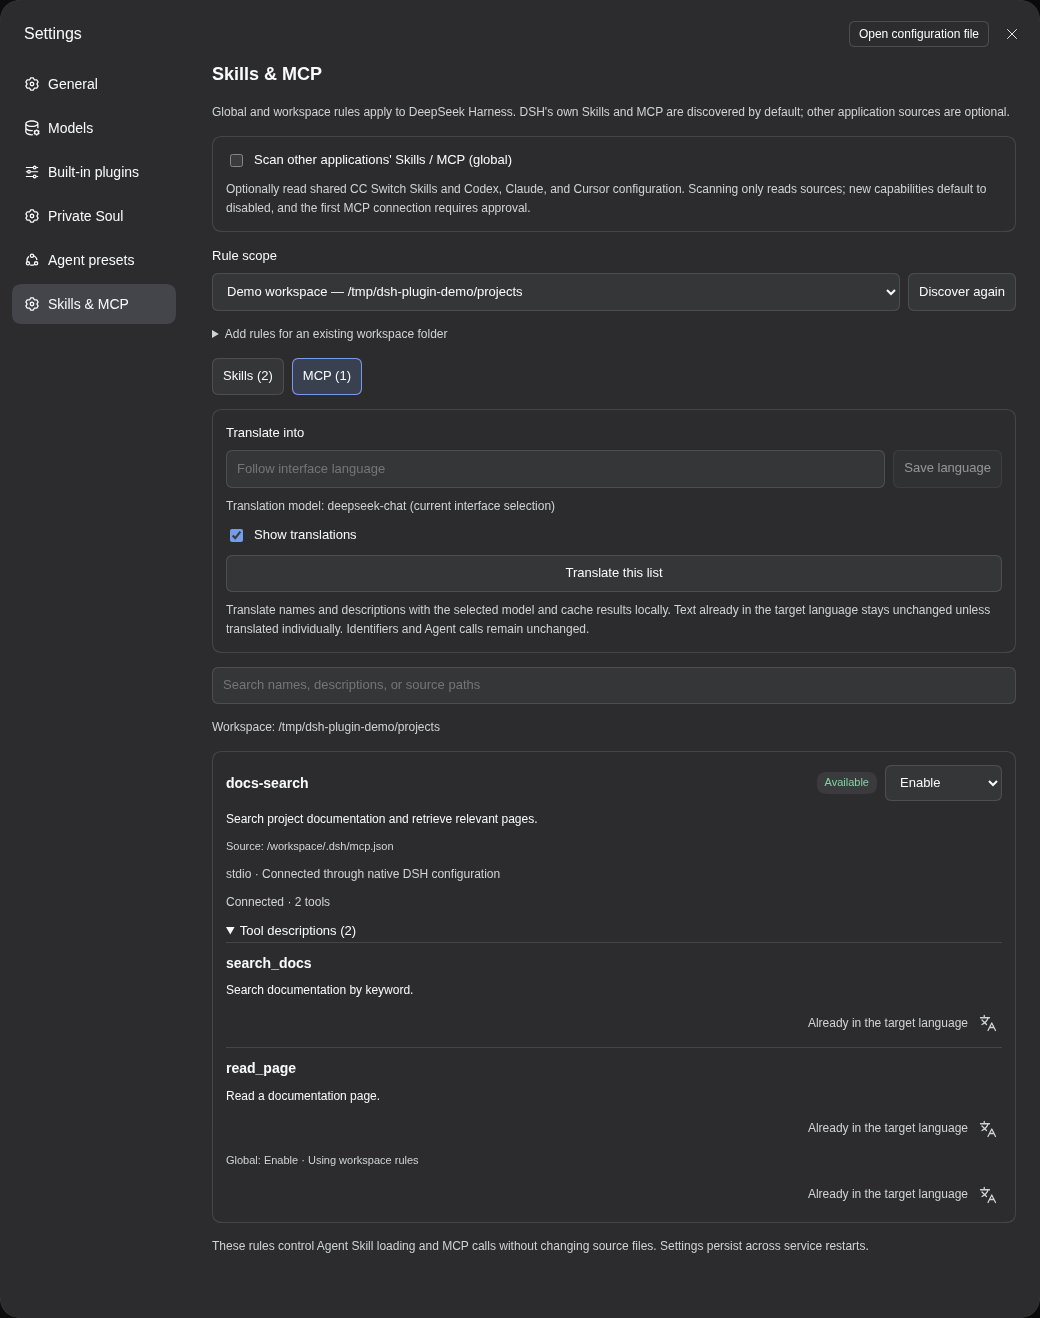
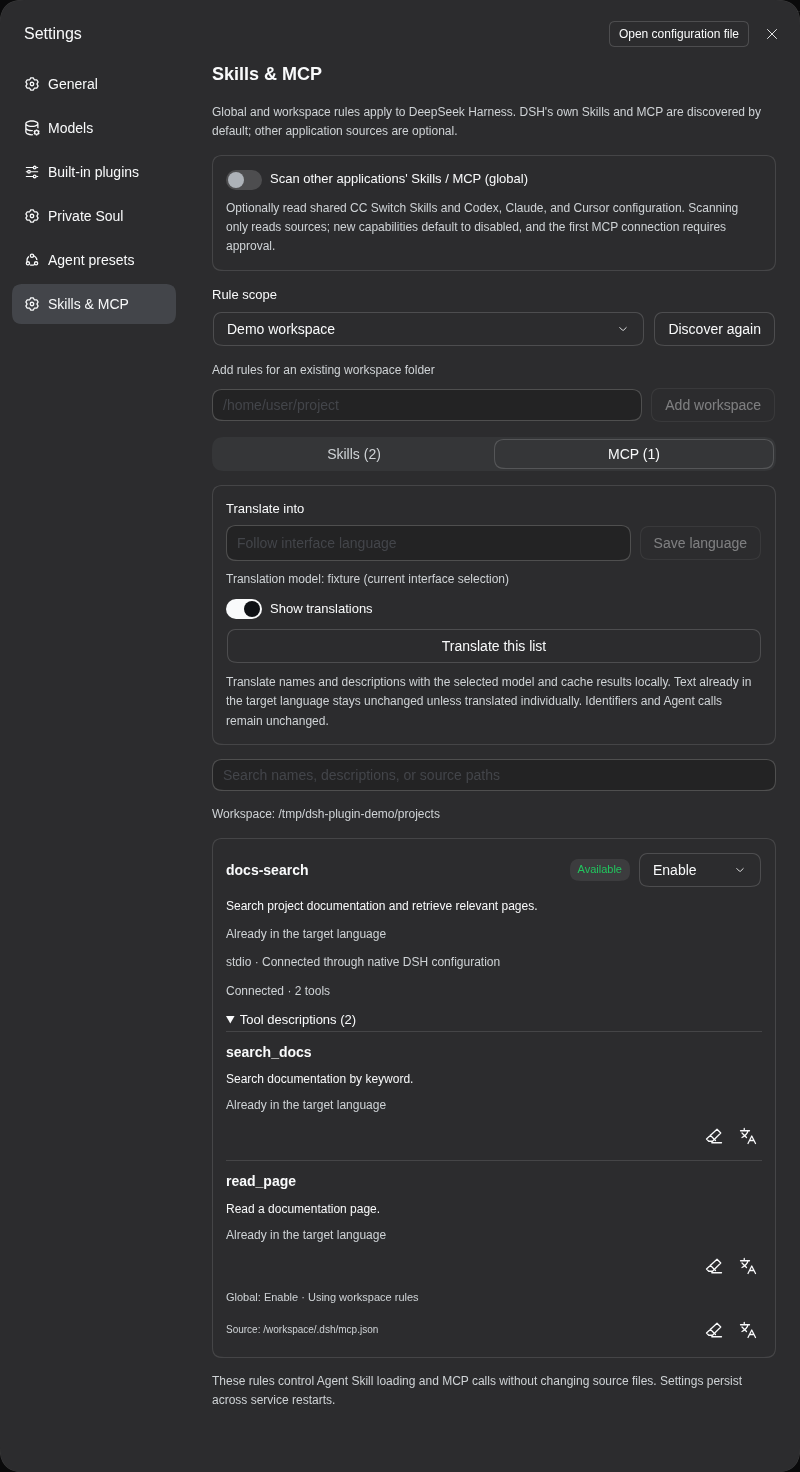
Refresh native UI screenshots and verify Standard/PTC Skill injection

diff --git a/README.en.md b/README.en.md
@@ -33,9 +33,11 @@ Verified against the native DeepSeek Harness **0.2.2-rc.2** Web service using re
 | Preset | Capability Desk | Soul Desk | File Bridge |
 | --- | --- | --- | --- |
 | Standard `standard` | Skill/MCP catalogs, rules and invocation guards work | All three injection modes, memories and child policies work | Download and access checks work |
-| PTC `ptc` | Disabled tools are omitted from the SDK and nested calls remain guarded | Preserves the `run_code` protocol and SDK; memory tools work through SDK calls | Works independently of tool-call style |
+| PTC `ptc` | Enabled Skills are injected normally; enabled tools stay in the SDK, while disabled entries are hidden and guarded | Preserves the `run_code` protocol and SDK; memory tools work through SDK calls | Works independently of tool-call style |
 | Minimal `minimal` | Rules work without adding a Skill loader, editor or subagent tools | Persona and memory support preserves the preset's existing tool boundary | Works |
 | Creation `cordis` | Skill/MCP rules preserve native creation tools | All three injection modes, memories and child policies work | Works |
+
+PTC and Standard both receive the available Skill catalog, persona and memories. Full Skill instructions enter context when loaded. PTC invokes tools through the `run_code` SDK; Standard invokes them directly. All six combinations with Priority, Complete and Append were tested: enabled Skills load, while disabled ones cannot be forced.
 
 Minimal does not ship a Skill loader or subagents; enabling a Skill does not install those tools into that preset. Global plugins can still contribute their own memory or MCP tools. Soul child policies default to no persona; parent reuse is explicit. Soul's Complete mode replaces the preset's prompt body while preserving executor protocol/SDK sections, tool schemas and native runtime context. Use Priority or Append to keep the original task instructions. Custom presets that isolate or replace underlying registries, and external ACP backends, need separate verification.
 
@@ -54,13 +56,15 @@ See [four-preset acceptance](docs/AGENT-PRESET-COMPATIBILITY.md).
 
 Select a scope, change each capability's rule, and manage translated text using the item icons and Show translations switch.
 
-![Workspace Skill rules and translations](https://raw.githubusercontent.com/ousiqwq/dsh-capability-desk/main/docs/images/skills.en.png?v=1.3.2)
+Screenshots show the current native DSH UI with isolated sample data; settings are expanded for readability.
+
+![Workspace Skill rules and translations](https://raw.githubusercontent.com/ousiqwq/dsh-capability-desk/main/docs/images/skills.en.png?v=1.3.4)
 
 ### MCP connections and tool descriptions
 
 Inspect sources, connection status, and tool lists, and configure availability for each server.
 
-![MCP connection status, tool descriptions, and translations](https://raw.githubusercontent.com/ousiqwq/dsh-capability-desk/main/docs/images/mcp.en.png?v=1.3.2)
+![MCP connection status, tool descriptions, and translations](https://raw.githubusercontent.com/ousiqwq/dsh-capability-desk/main/docs/images/mcp.en.png?v=1.3.4)
 
 ## Usage
 

diff --git a/README.md b/README.md
@@ -33,9 +33,11 @@ dsh plugin --profile web add dsh-plugin-workspace-capabilities
 | 预设 | Capability Desk | Soul Desk | File Bridge |
 | --- | --- | --- | --- |
 | 标准 `standard` | Skill/MCP 规则、目录及调用拦截有效 | 三种注入方式、记忆与子代理规则有效 | 文件下载及权限校验有效 |
-| PTC `ptc` | SDK 中隐藏禁用工具，嵌套调用仍受拦截 | 保留 `run_code` 协议与工具 SDK，记忆可从 SDK 调用 | 同样有效，与工具调用形式无关 |
+| PTC `ptc` | 可用 Skill 正常注入；启用的工具保留在 SDK 中，仅隐藏并拦截禁用项 | 保留 `run_code` 协议与工具 SDK，记忆可从 SDK 调用 | 同样有效，与工具调用形式无关 |
 | 极简 `minimal` | 规则仍有效；不会额外添加 Skill 加载、编辑或子代理工具 | 人设与记忆有效，保留预设原有工具边界 | 同样有效 |
 | 创造 `cordis` | Skill/MCP 规则有效，不移除原生创造工具 | 三种注入方式、记忆与子代理规则有效 | 同样有效 |
+
+PTC 与标准模式都保留可用 Skill 目录、人设和记忆。Skill 完整说明仍在加载后进入上下文；PTC 通过 `run_code` 调用 SDK，标准模式直接调用工具。已实测两种模式与“优先／替换／追加”的六种组合，启用项可加载，禁用项不可强行调用。
 
 极简模式没有原生 Skill 加载器或子代理，启用某项 Skill 不会为该预设补装这些工具。全局插件仍可提供自己的记忆或 MCP 工具。子代理策略以 Soul 的设置为准，默认不使用人设；复用派出者需明确配置。Soul 的“替换”模式替换预设提示词正文，但保留执行器协议/SDK、工具 schema 和原生运行上下文；希望保留原有任务说明时使用“优先”或“追加”。自定义预设若隔离或替换底层注册表、外部 ACP 后端，不在本次统一保证范围。
 
@@ -54,13 +56,15 @@ dsh plugin --profile web add dsh-plugin-workspace-capabilities
 
 选择规则范围并单独调整能力状态。缓存译文默认显示；卡片右下角可去除或重新翻译。
 
-![工作区 Skill 规则与译文](https://raw.githubusercontent.com/ousiqwq/dsh-capability-desk/main/docs/images/skills.png?v=1.3.2)
+截图使用当前 DSH 原生界面与隔离示例数据；设置区域为阅读方便展开显示。
+
+![工作区 Skill 规则与译文](https://raw.githubusercontent.com/ousiqwq/dsh-capability-desk/main/docs/images/skills.png?v=1.3.4)
 
 ### MCP 连接与工具说明
 
 查看来源、连接状态与工具列表，为每个 MCP 设置可用规则。
 
-![MCP 状态、工具说明与翻译](https://raw.githubusercontent.com/ousiqwq/dsh-capability-desk/main/docs/images/mcp.png?v=1.3.2)
+![MCP 状态、工具说明与翻译](https://raw.githubusercontent.com/ousiqwq/dsh-capability-desk/main/docs/images/mcp.png?v=1.3.4)
 
 ## 使用
 
